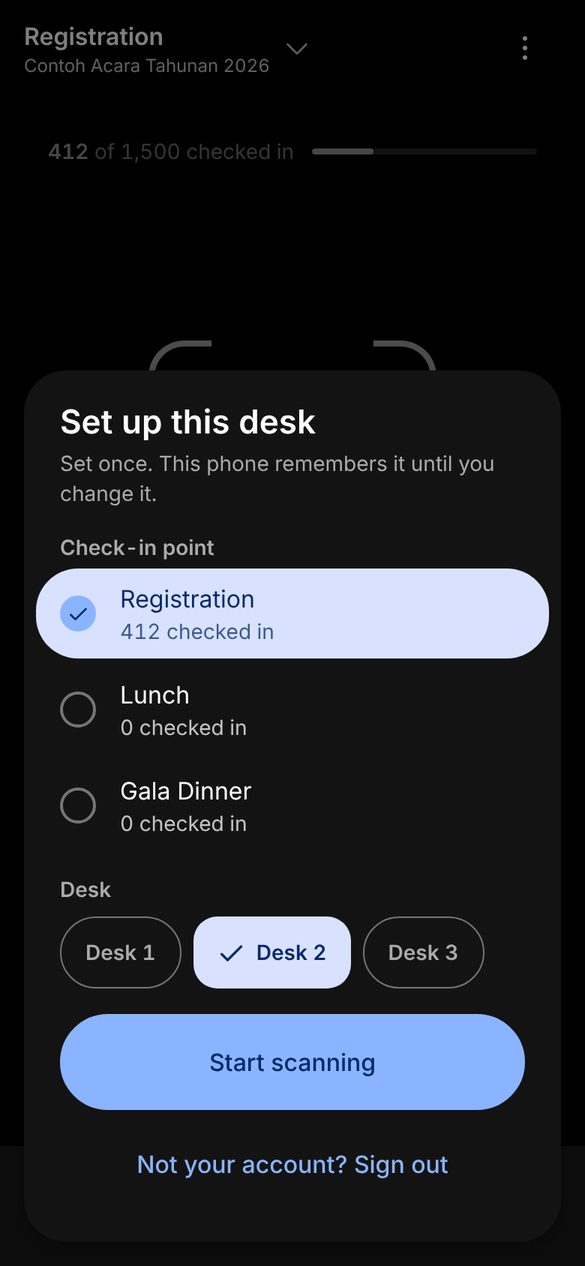
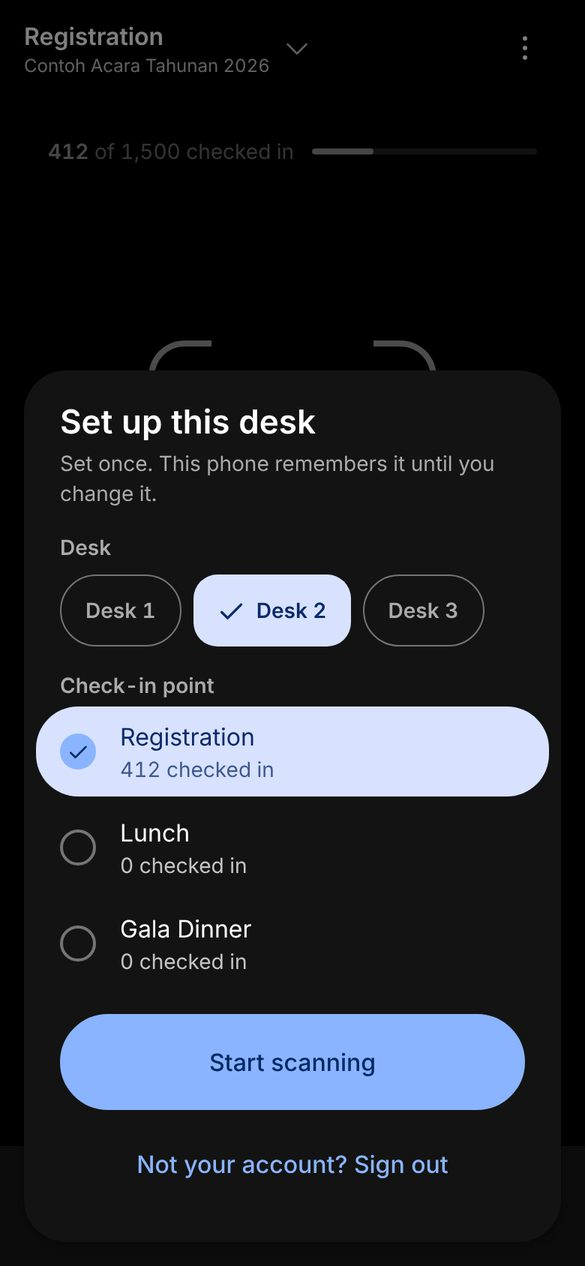
Scanner sheet: desks above the check-in points so none hide under the button
Claude-Session: https://claude.ai/code/session_01P7FxNWetH7jWFf6Wi27DgB

Changed region(s): [[0.0615, 0.4313, 0.9538, 0.8009]]

diff --git a/src/app/scan/lembar-meja.tsx b/src/app/scan/lembar-meja.tsx
@@ -172,6 +172,21 @@ export function PilihMeja({
         if (siap && sesi !== null) onSimpan(sesi, perluJalur ? jalur : null);
       }}
     >
+      {/* Hanya untuk acara yang memang punya meja. Acara satu meja tidak perlu
+          memahami konsep yang tidak dipakainya. Meja DI ATAS checkpoint: chipnya
+          pendek dan jarang berubah, jadi selalu terlihat tanpa digulir. Yang boleh
+          bergulir hanya daftar checkpoint, yang panjangnya tergantung acara. */}
+      {perluJalur ? (
+        <fieldset className="mt-4">
+          <legend className="px-6 text-title-small text-on-surface-variant">Desk</legend>
+          <div className="mt-2 flex flex-wrap gap-2 px-6">
+            {lanes.map((baris) => (
+              <ChipMeja key={baris.id} value={baris.id} label={baris.name} dipilih={jalur === baris.id} onPilih={setJalur} />
+            ))}
+          </div>
+        </fieldset>
+      ) : null}
+
       <fieldset className="mt-4">
         <legend className="px-6 text-title-small text-on-surface-variant">Check-in point</legend>
         <div className="mt-1 space-y-1 px-2">
@@ -191,19 +206,6 @@ export function PilihMeja({
           })}
         </div>
       </fieldset>
-
-      {/* Hanya untuk acara yang memang punya meja. Acara satu meja tidak perlu
-          memahami konsep yang tidak dipakainya. */}
-      {perluJalur ? (
-        <fieldset className="mt-4">
-          <legend className="px-6 text-title-small text-on-surface-variant">Desk</legend>
-          <div className="mt-2 flex flex-wrap gap-2 px-6">
-            {lanes.map((baris) => (
-              <ChipMeja key={baris.id} value={baris.id} label={baris.name} dipilih={jalur === baris.id} onPilih={setJalur} />
-            ))}
-          </div>
-        </fieldset>
-      ) : null}
 
       {/* Penanda ujung daftar: selama ia belum terlihat, ada pilihan di bawah kaki. */}
       <div ref={setUjung} aria-hidden className="h-px" />

diff --git a/public/panduan/scanner.html b/public/panduan/scanner.html
@@ -113,8 +113,8 @@ footer { margin-top: 36px; color: var(--muted); font-size: 13px; }
     <h2><span class="no">1</span>Pilih sesi dan meja</h2>
     <p>Saat pertama dibuka, layar langsung menampilkan <span class="ui">Set up this desk</span>. Lembar ini tidak bisa ditutup sebelum diisi.</p>
     <ol class="steps">
+      <li>Di <span class="ui">Desk</span>, pilih meja tempat Anda berdiri (di bagian atas lembar). Bagian ini hanya muncul kalau acara punya lebih dari satu meja.</li>
       <li>Di <span class="ui">Check-in point</span>, pilih sesi yang sedang berjalan, misalnya <span class="ui">Registration</span>. Angka di bawah namanya adalah jumlah orang yang sudah hadir di sesi itu.</li>
-      <li>Di <span class="ui">Desk</span>, pilih meja tempat Anda berdiri. Bagian ini hanya muncul kalau acara punya lebih dari satu meja.</li>
       <li>Tekan <span class="ui">Start scanning</span> di bawah lembar. Tombolnya baru aktif setelah sesi dan meja dipilih. Tombol ini selalu terlihat; kalau daftar sesinya panjang, gulir daftarnya, bukan mencari tombolnya.</li>
     </ol>
     <div class="pair">

diff --git a/docs/STATUS.md b/docs/STATUS.md
@@ -15,7 +15,7 @@ Current state only. History is in `git log` and PR descriptions. Last updated: 2
 
 ## In flight
 
-- Scanner "Change check-in point or desk" sheet (Mas 3 Nov: with 6 check-in points and 4 desks the Start scanning button sat below the phone screen): Start scanning is pinned to the bottom of the sheet (a thin line shows while choices are hidden under it), the "N checked in" count moves under the name so long names keep two lines, and desks are 48 px choice chips instead of full rows. A choice still applies only on Start scanning. Staff /scan only, no SQL. Scanner guide shots 01-02 retaken. PR open, waits on QA and Mas's timing OK.
+- Scanner "Change check-in point or desk" sheet (Mas 3 Nov: with 6 check-in points and 4 desks the Start scanning button sat below the phone screen): Start scanning is pinned to the bottom of the sheet (a thin line shows while choices are hidden under it), the "N checked in" count moves under the name so long names keep two lines, and desks are 48 px choice chips above the check-in points (always visible without scrolling) instead of full rows below them. A choice still applies only on Start scanning. Staff /scan only, no SQL. Scanner guide shots 01-02 retaken. PR open, waits on QA and Mas's timing OK.
 - Vehicle on the scan result follows the session's Agenda time (Mas 3 Nov: Vehicle showed "Not set" while testing although vehicles are assigned per trip): when the session's checkpoint is linked to Agenda rows, Shown after scan > Vehicle shows the participant's trip that departs last before that row's time on the same day (else the first one after it that day; no trip that day = default vehicle or Not set), so a rehearsal shows the same as the day itself. Unlinked sessions keep the scan-date rule, now falling forward to the next trip like Hotel. Menu tag "trip for this session". Staff /scan only, no SQL. PR open, waits on QA and Mas's timing OK.
 - Printable checkpoint QR (Mas 2 Nov, a client wants the checkpoint QR on a poster): Check-in > Checkpoints > checkpoint scanned by participants > Checkpoint QR: "Changes every 30 seconds" (default, as before) or "Fixed, can be printed". Fixed = one code per scan session and code number, valid only while the session is Open; "Print poster (A4)" and "Make a new code…" (old posters refused with their own message); amber warning when a lucky draw prize uses check-ins or checkpoints. Scanner Show QR and the screen view show the same code without the countdown. Stored per scan session; SQL `202611020001_checkpoint_qr_tetap` (three columns, defaults keep every event at 0 px). SQL run on production 2 Nov, post-check true. #378 merged 2 Nov (QA GO, Mas OK). Parked Lows: the poster's top line still says "Loading…" beside an error; saving a checkpoint whose When is refused (422) still switches its session to Fixed; the lucky draw warning is not indented like the Checkpoint QR choice.
 - Luggage number on the Bagasi card (Mas 2 Nov: the big number above "2 bagasi" looked stuck on): the number now sits in the grey key-fact strip ("Nomor bagasi A-045"), the same strip as the hotel room and the train carriage and seat; "2 bagasi" stays the card headline. Before drop-off the card shows the strip and "Sebutkan nomor ini di meja bagasi.". Horizon and Trip, participant area only, no SQL. #377 merged 2 Nov (QA GO, Mas OK).
